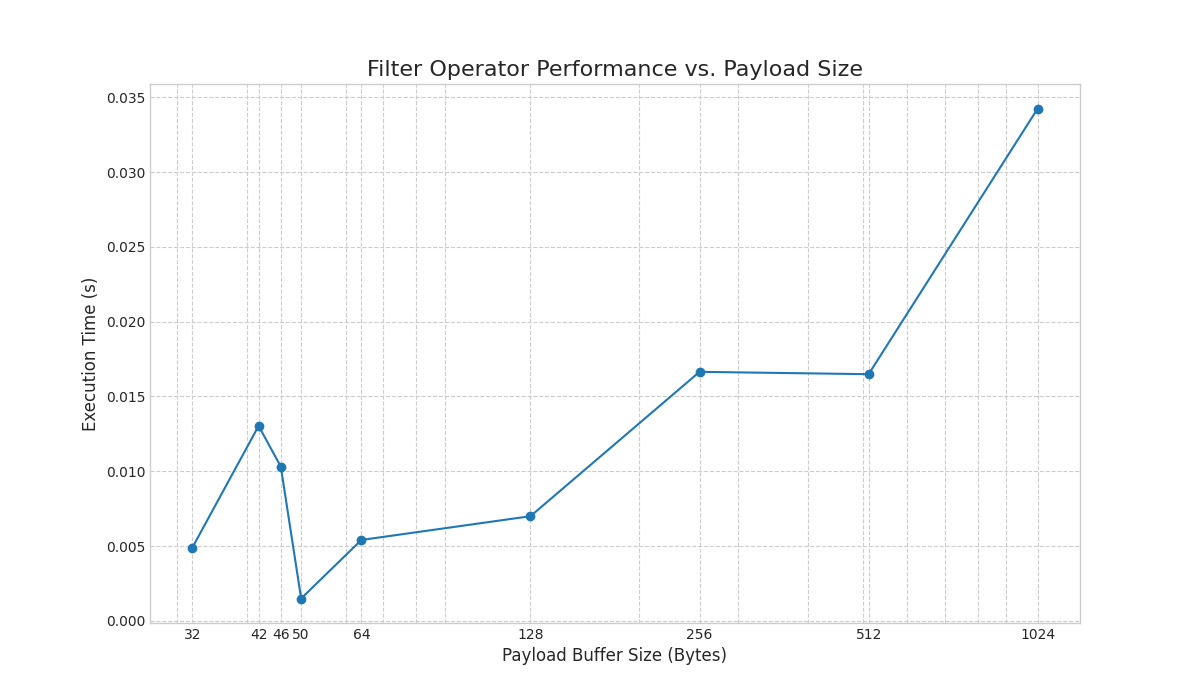
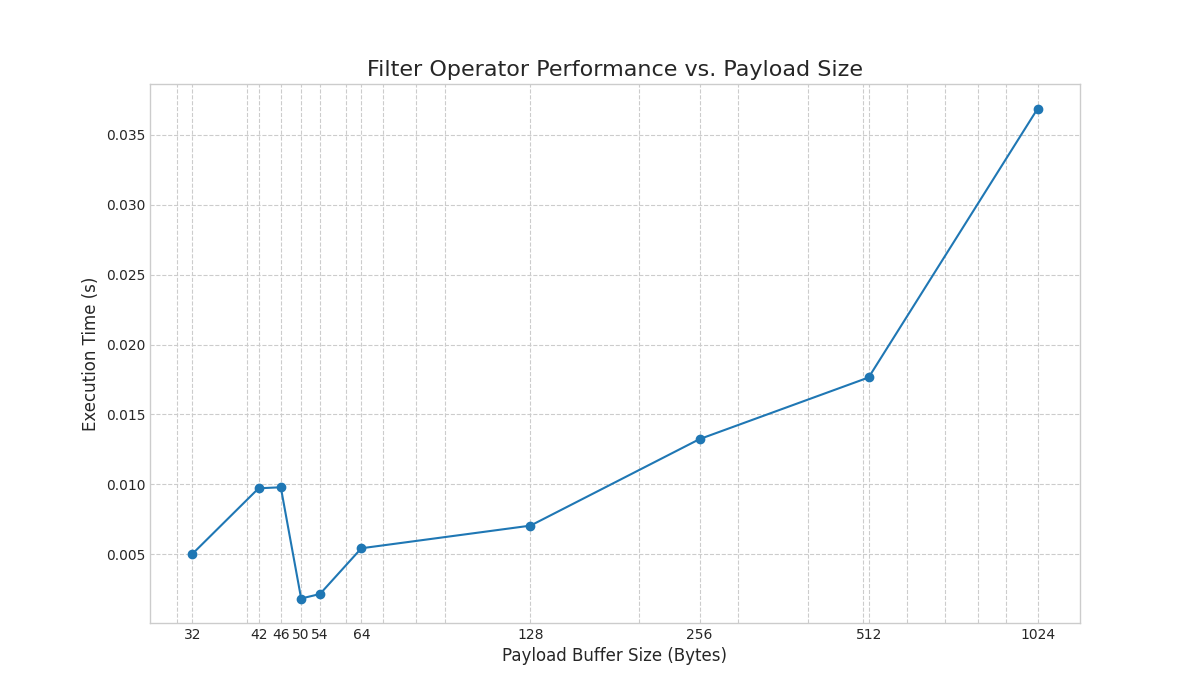
Added more payload sizes to graphs

diff --git a/test_payload_filter.py b/test_payload_filter.py
@@ -13,7 +13,7 @@ C_HEADER_PATH = Path(os.path.expanduser("~/obliviator/operator_1/common/elem_t.h
 OPERATOR_SCRIPT = "operator1.py"
 
 # --- Test Parameters ---
-PAYLOAD_SIZES = [32, 42, 46, 50, 64, 128, 256, 512, 1024]
+PAYLOAD_SIZES = [32, 42, 46, 50, 54, 64, 128, 256, 512, 1024]
 TEST_MESSAGE_ID = "2336463350747" # The ID we know works
 
 def set_data_length(size: int):

diff --git a/test_payload_fkjoin.py b/test_payload_fkjoin.py
@@ -14,7 +14,7 @@ TABLE1_PATH = "Big_LDBC/Person.csv"
 TABLE2_PATH = "Big_LDBC/Post.csv"
 
 # --- Test Parameters ---
-PAYLOAD_SIZES_REMAPPED = [32, 42, 46, 50, 64, 128, 256]
+PAYLOAD_SIZES_REMAPPED = [32, 42, 46, 50, 54, 64, 128, 256]
 PAYLOAD_SIZES_DIRECT = [1024, 512, 256, 128]
 
 def set_data_length(size: int):
